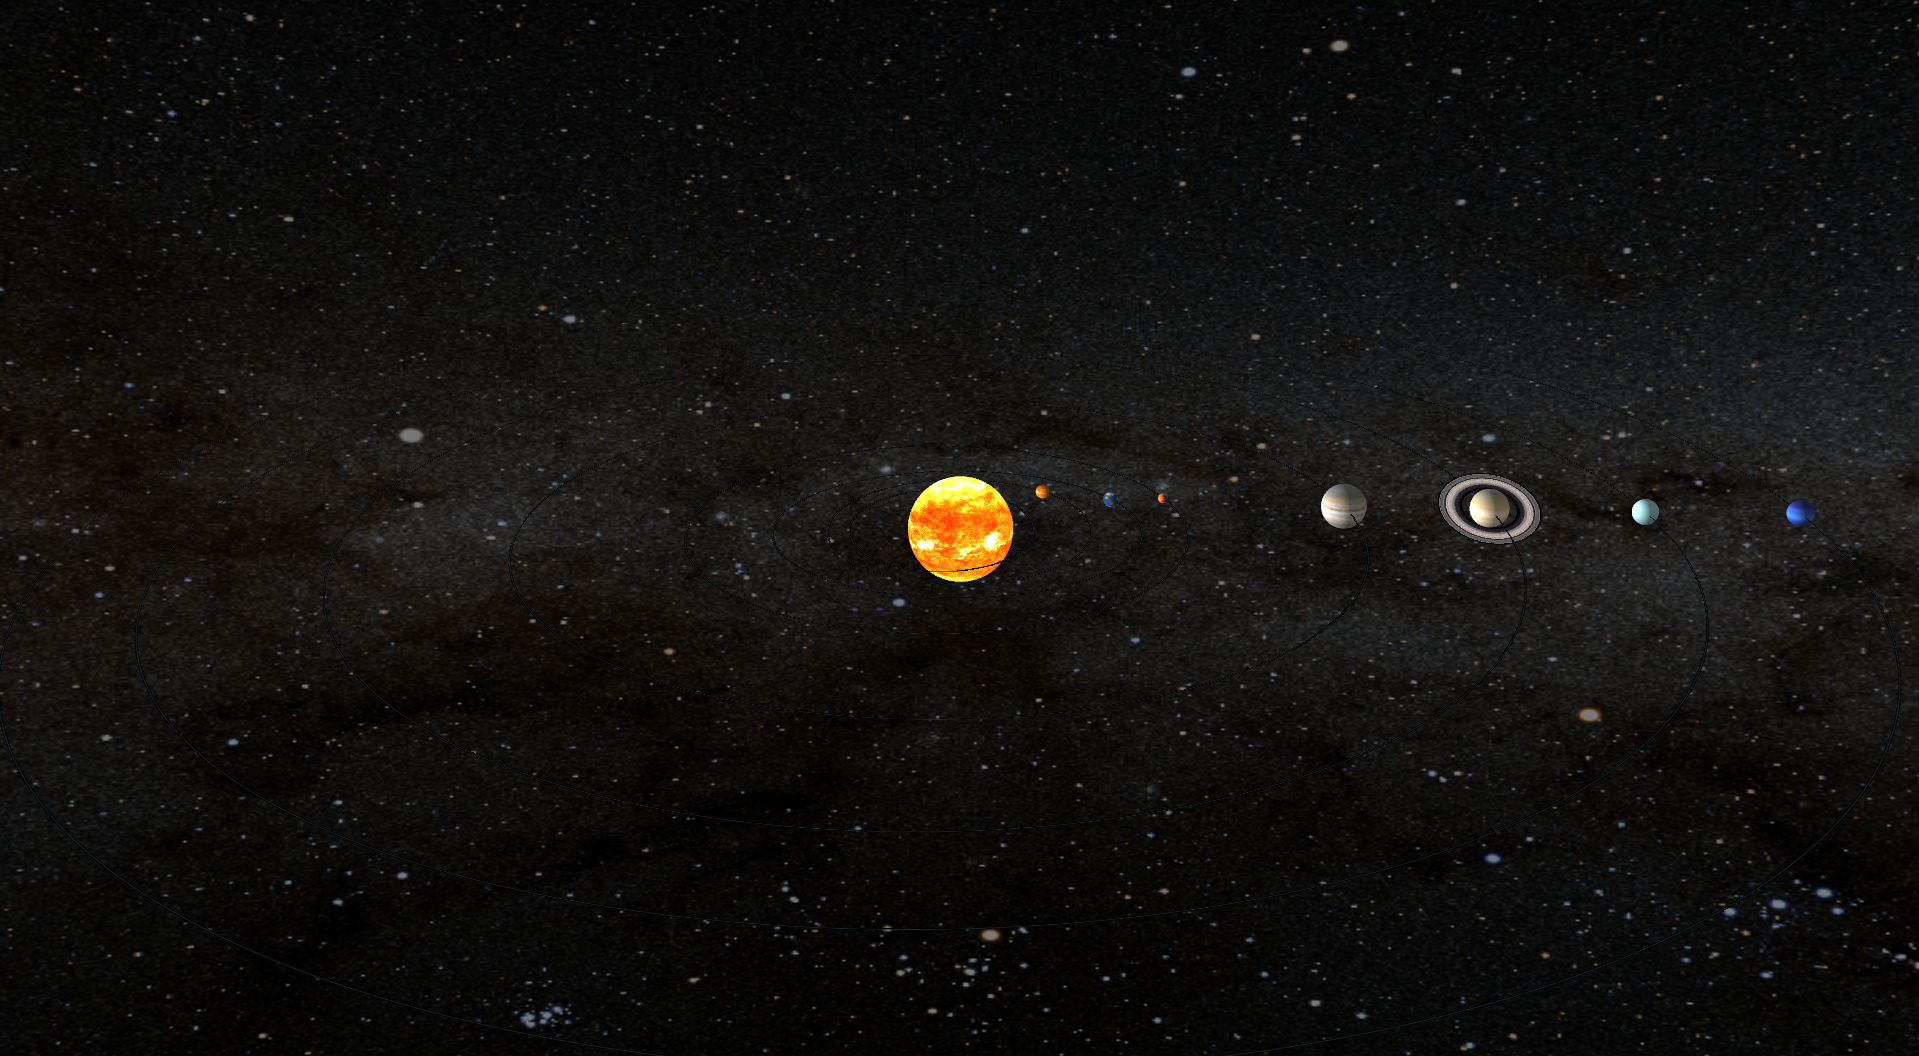
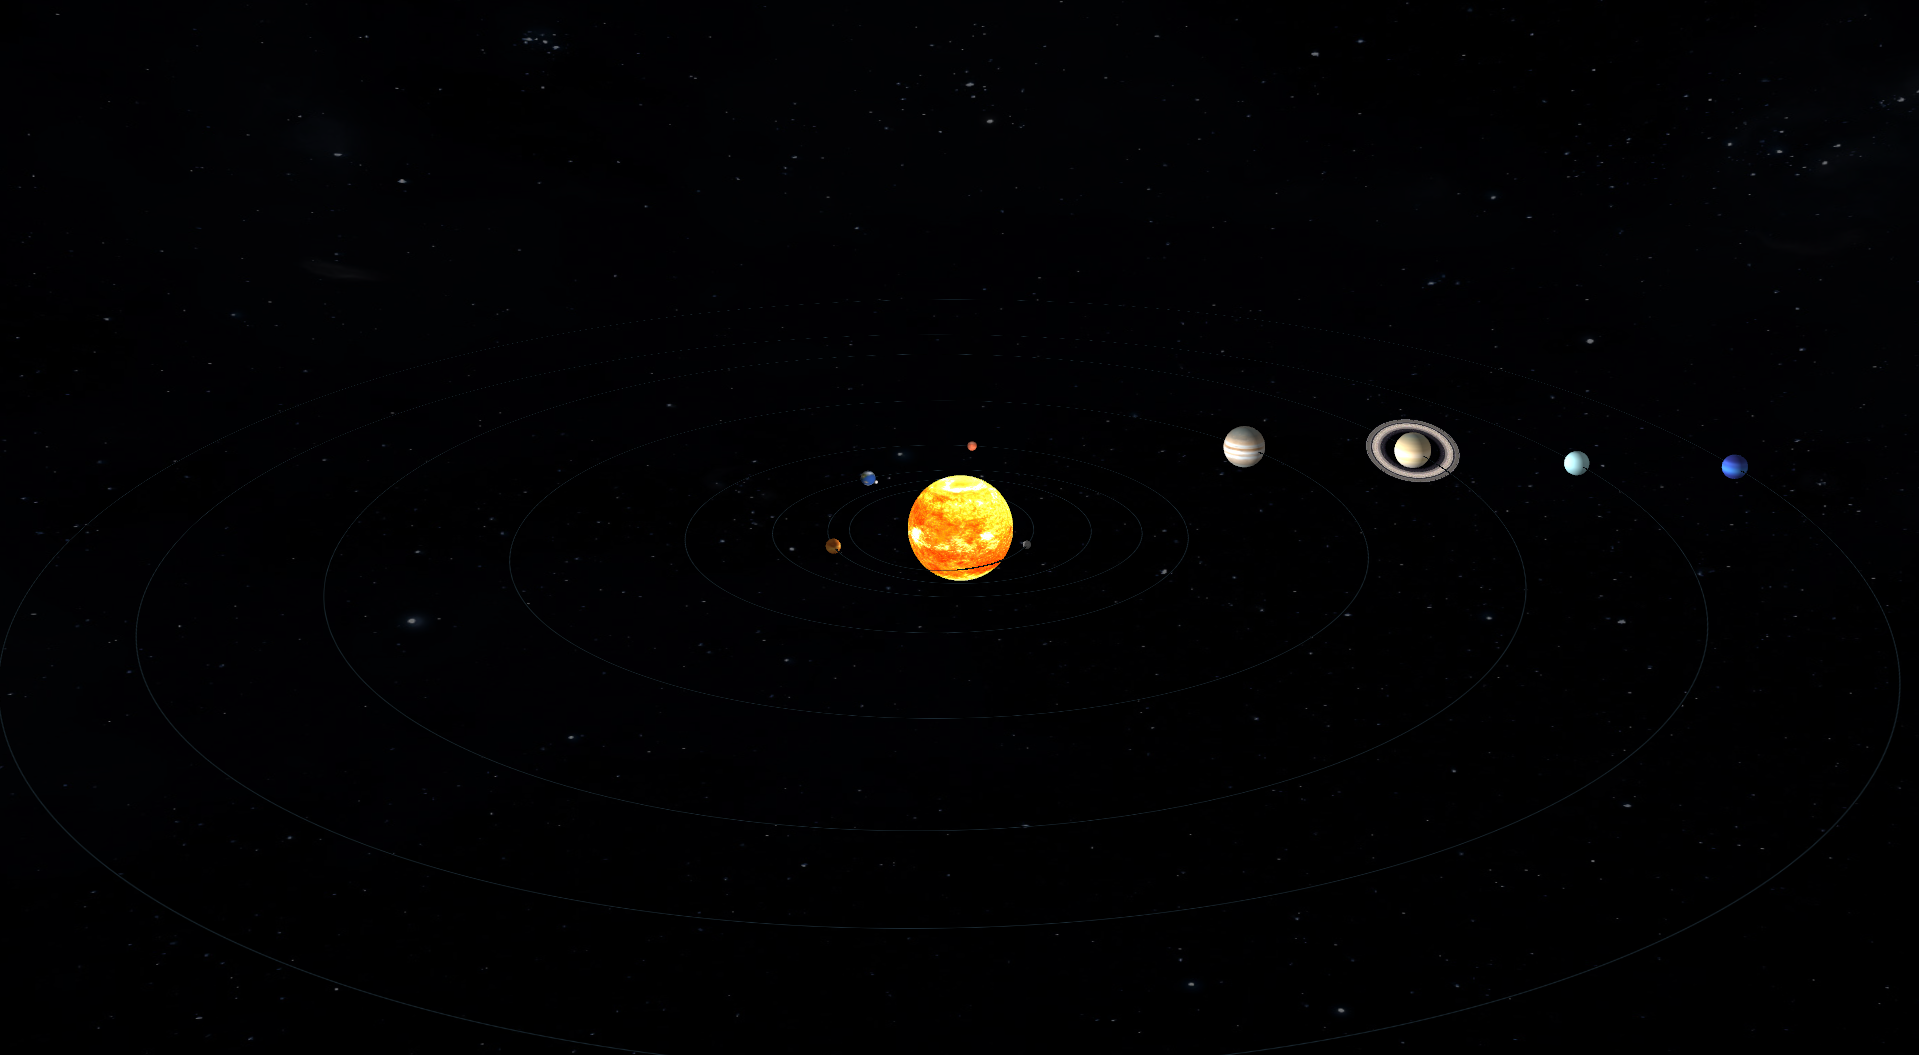
Edited README.md, added LICENSE.md, changed Wallpaper

diff --git a/README.md b/README.md
@@ -1,20 +1,22 @@
-# Interactive 3D Solar System Simulator
+# Interactive 3D Solar System Simulator (V2)
 
-A physics-based 3D Solar System simulation built from scratch using **Java** and **JavaFX**. This project combines a custom N-Body physics engine with accurate orbital mechanics (including real inclinations and eccentricities) to create a realistic and interactive space environment.
+A physics-based 3D Solar System simulation built from scratch using **Java** and **JavaFX**. This project combines a custom N-Body physics engine with accurate orbital mechanics and a dynamic "God Mode" sandbox to create a professional and interactive space environment.
 
 ![Solar System Preview](src/main/resources/project_screen.png)
 
 ## What's inside
 
-* **N-Body Physics Engine**: A custom-coded engine that calculates real-time gravitational forces between all objects in the system.
-* **Scientific Data**: Planets aren't just moving in circles; they use real NASA data for orbital inclination and eccentricity.
+* **N-Body Physics Engine**: A custom-coded engine that calculates real-time gravitational forces between all objects.
+* **Mixed Kinematic Model**:
+  * **Planets**: Fully dynamic gravity-based movement.
+  * **Moons**: Parametric deterministic orbits to ensure infinite stability around moving hosts, eliminating numerical drift.
+* **God Mode (Creator Panel)**: A slide-out HUD that allows the real-time injection of custom celestial bodies with adjustable mass, distance, and velocity.
+* **Quick Save/Load System**: Full state serialization to disk. Save your orbital configuration and resume it at any time.
 * **Realistic Visuals**:
-  * High-resolution textures for planets and an immersive 8K skybox.
-  * Procedurally generated **Saturn's rings** visible from both sides.
-  * Real-time orbit trails to visualize the actual paths of the planets.
-* **Interactive HUD**: Clicking a planet pauses the simulation and brings up a metadata panel with real astronomical stats (Mass, Radius, Temperature, etc.).
-* **Collision Physics**: When bodies get too close, they collide and merge based on the conservation of momentum.
-* **Total Camera Freedom**: A fully 3D "free-roam" camera system.
+  * Unified **Deep-Space HUD** design (NASA-inspired) with a minimalist, non-intrusive aesthetic.
+  * Procedurally generated Saturn's rings and immersive skybox.
+  * Real-time orbit trails to visualize complex gravitational interactions.
+* **Collision Physics**: Conservation of momentum applied when bodies collide and merge.
 
 ## How to use it
 
@@ -23,16 +25,17 @@ A physics-based 3D Solar System simulation built from scratch using **Java** and
 | **Rotate the view** | Left Click + Drag |
 | **Move the camera** | Right Click + Drag (or Arrow Keys) |
 | **Zoom in/out** | Scroll Wheel (or W / S keys) |
-| **Inspect a planet** | Left Click on it (Pauses the sim) |
-| **Go back/Resume** | Left Click on empty space |
-| **Reset camera** | R key |
+| **System Menu** | **P** Key (Resume, Save, Load, Quit) |
+| **God Mode HUD** | **C** Key (Spawn custom planets) |
+| **Inspect a planet** | Left Click on it (Opens Telemetry) |
 | **Play/Pause** | Spacebar |
+| **Reset camera** | R key |
 
 ## Tech Stack
 
 * **Language**: Java 17+
 * **Framework**: JavaFX (3D API)
-* **Core Concepts**: MVC Architecture, Observer Pattern, and N-Body Gravity Algorithms.
+* **Core Concepts**: MVC Architecture, Observer Pattern, Binary Serialization, and N-Body Gravity Algorithms.
 
 ## Getting Started
 
@@ -45,7 +48,7 @@ A physics-based 3D Solar System simulation built from scratch using **Java** and
 
 ## License & Copyright
 
-**Copyright © 2025 [D13GOOOO]. All Rights Reserved.**
+**Copyright © 2026 [D13GOOOO]. All Rights Reserved.**
 
 This is a **proprietary** project.
 

diff --git a/LICENSE.md b/LICENSE.md
@@ -1,0 +1,13 @@
+# Copyright and License
+
+**Copyright © 2026 [D13GOOOO] (Diego Guerini). All rights reserved.**
+
+### Proprietary Software Notice
+
+This software and all associated files (the "Software") are the sole property of the author.
+
+1. **Usage**: This Software is provided for demonstration and portfolio purposes only.
+2. **Restrictions**: You may not copy, modify, merge, publish, distribute, sublicense, or sell copies of the Software without the express written permission of the author.
+3. **No Warranty**: THE SOFTWARE IS PROVIDED "AS IS", WITHOUT WARRANTY OF ANY KIND, EXPRESS OR IMPLIED.
+
+For permissions or inquiries, please contact: diego.guerini.it@gmail.com
